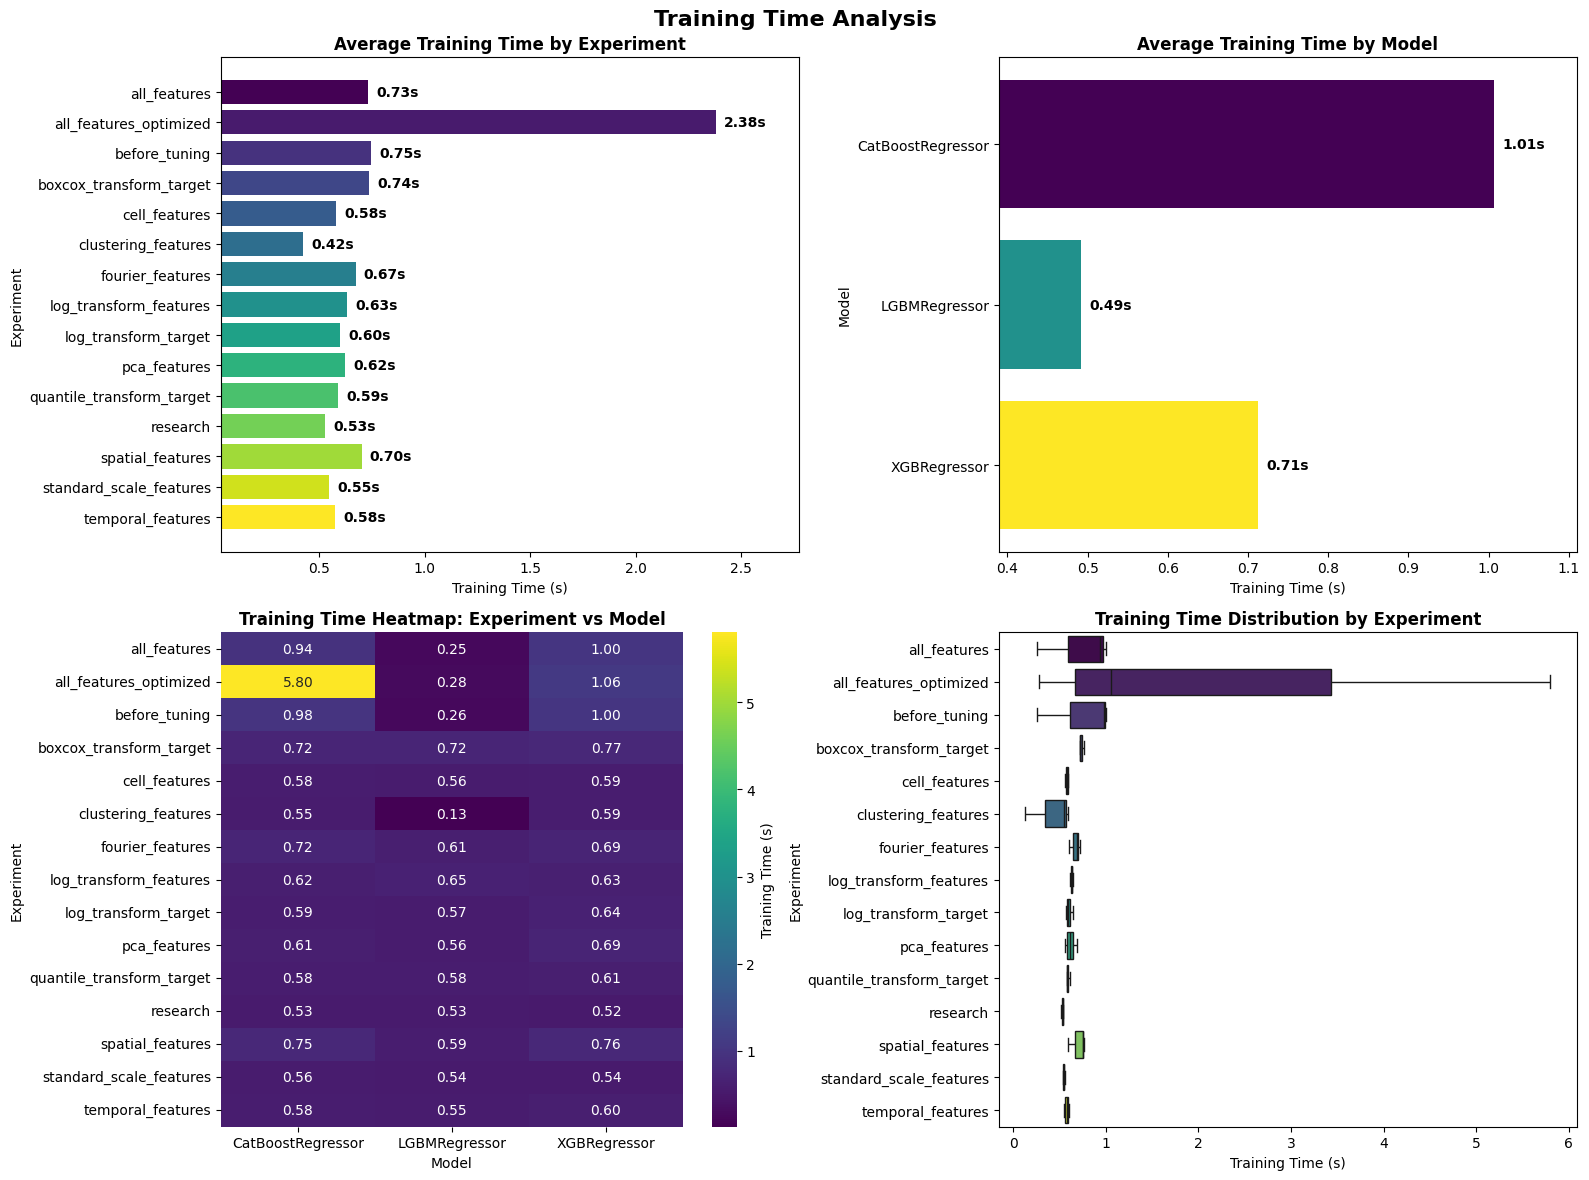
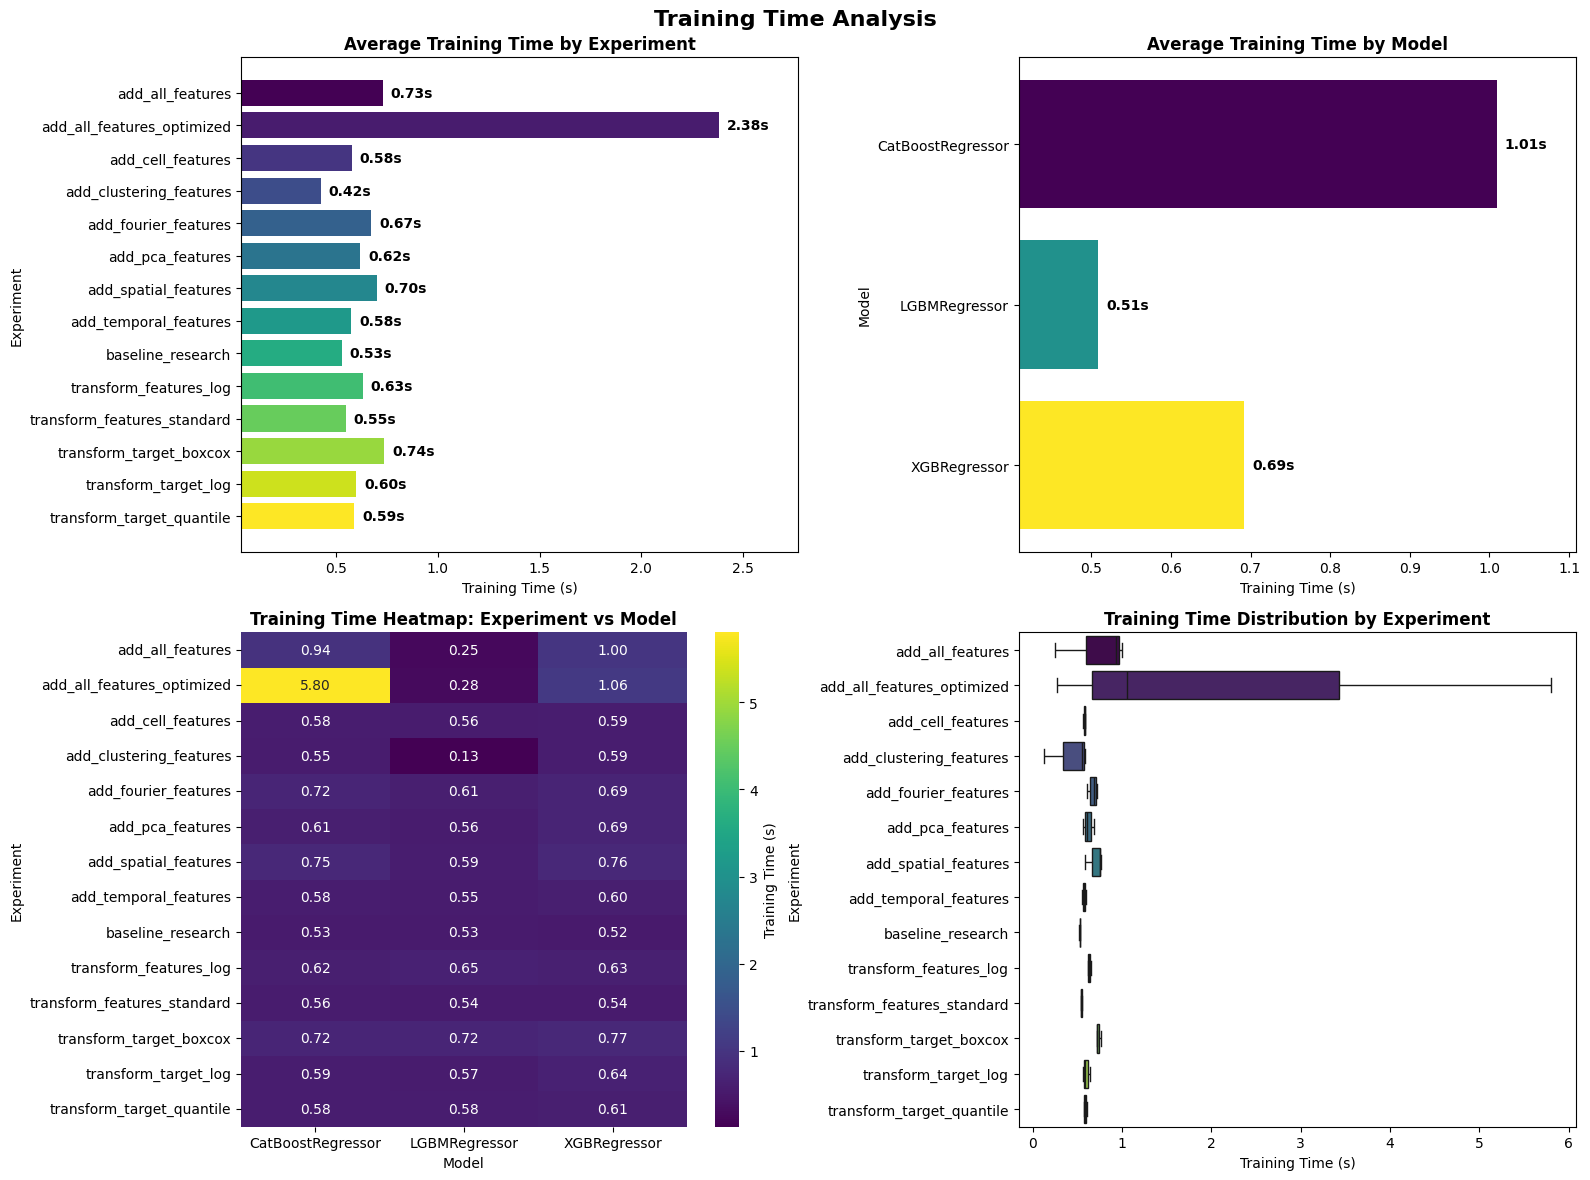
updated research results analysis

diff --git a/thesis/eta/results.py b/thesis/eta/results.py
@@ -19,7 +19,6 @@ from thesis.common.config import (
     RESULTS_FILENAME,
     TUNING_RESULTS_FILENAME,
 )
-from thesis.eta.experiment import ETAEvaluation
 from thesis.eta.models import ModelType
 
 logger = logging.getLogger(__name__)
@@ -360,12 +359,12 @@ def load_research_results() -> pd.DataFrame:
     """
     df = load_all_results()
 
-    evaluations = [evaluation.value for evaluation in ETAEvaluation]
-    evaluations.remove(ETAEvaluation.RESEARCH.value)
+    keywords = ["transform", "add", "research"]
+    pattern = "|".join(keywords)
 
-    filtered_df = df[~df["experiment"].isin(evaluations)]
+    filtered_df = df[df["experiment"].str.contains(pattern, case=False, regex=True)]
 
-    logger.info(f"Filtered to {len(filtered_df)} research experiment results (excluded evaluations: {evaluations})")
+    logger.info(f"Filtered to {len(filtered_df)} research experiment results")
 
     return filtered_df
 